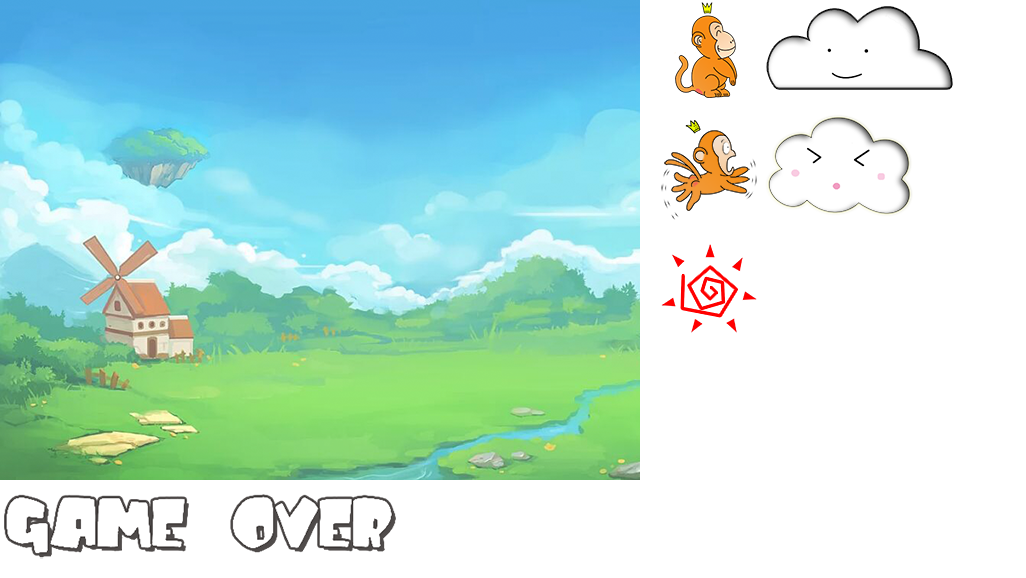
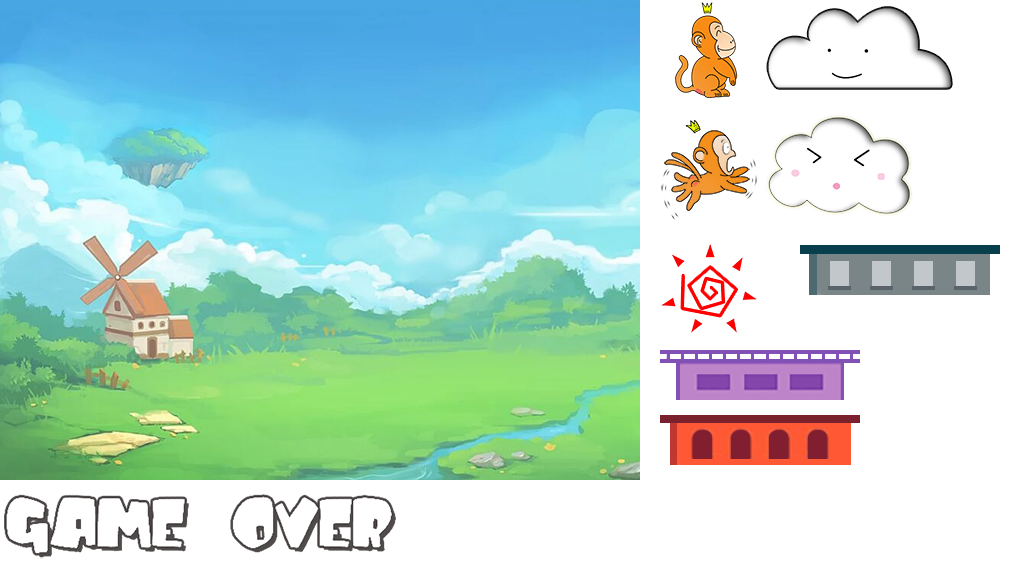
增加房顶模型

Changed region(s): [[0.6238, 0.5917, 0.8421, 0.8097], [0.7797, 0.4048, 0.9669, 0.5294]]

diff --git a/monkeyJump/monkeyJump.js b/monkeyJump/monkeyJump.js
@@ -185,26 +185,32 @@ function Monkey() {
 
 function Roof() {
   this.example = [];
+  this.position = [
+    [660, 350],
+    [660, 415],
+    [800, 245]
+  ]
 
   this.init = function() {
     this.example.push({
       width: 160,
       center: 150,
       height: 50,
-      type: 0
+      type: Math.floor(Math.random() * 100) % 3
     });
     this.create();
   }
   this.create = function() {
-    var widthBase, width, center;
+    var widthBase, width, center, type;
     widthBase = Math.max(160 - data.element.information.score * 4, 30);
     width = widthBase + Math.floor(Math.random() * widthBase / 2);
     center = 500 - widthBase / 2 + Math.floor(Math.random() * widthBase / 2);
+    type = Math.floor(Math.random() * 100) % 3;
     this.example.push({
       width: width,
       center: center,
       height: 0,
-      type: 0
+      type: type
     });
     this.example[this.example.length - 2].center = 150;
     this.up(this.example[this.example.length - 1]);
@@ -236,9 +242,12 @@ function Roof() {
   this.draw = function(cxt) {
     cxt.save();
     for (var i = 0, len = this.example.length; i < len; i++) {
+      var example = this.example[i];
+      position = this.position[example.type];
       cxt.beginPath();
       cxt.fillStyle = '#00f';
-      cxt.rect(this.example[i].center - this.example[i].width / 2, 480 - this.example[i].height, this.example[i].width, 50);
+      cxt.drawImage(data.image, position[0], position[1], 200, 50,
+        example.center - example.width / 2, 480 - example.height, example.width, 50);
       cxt.fill();
     }
     cxt.restore();
